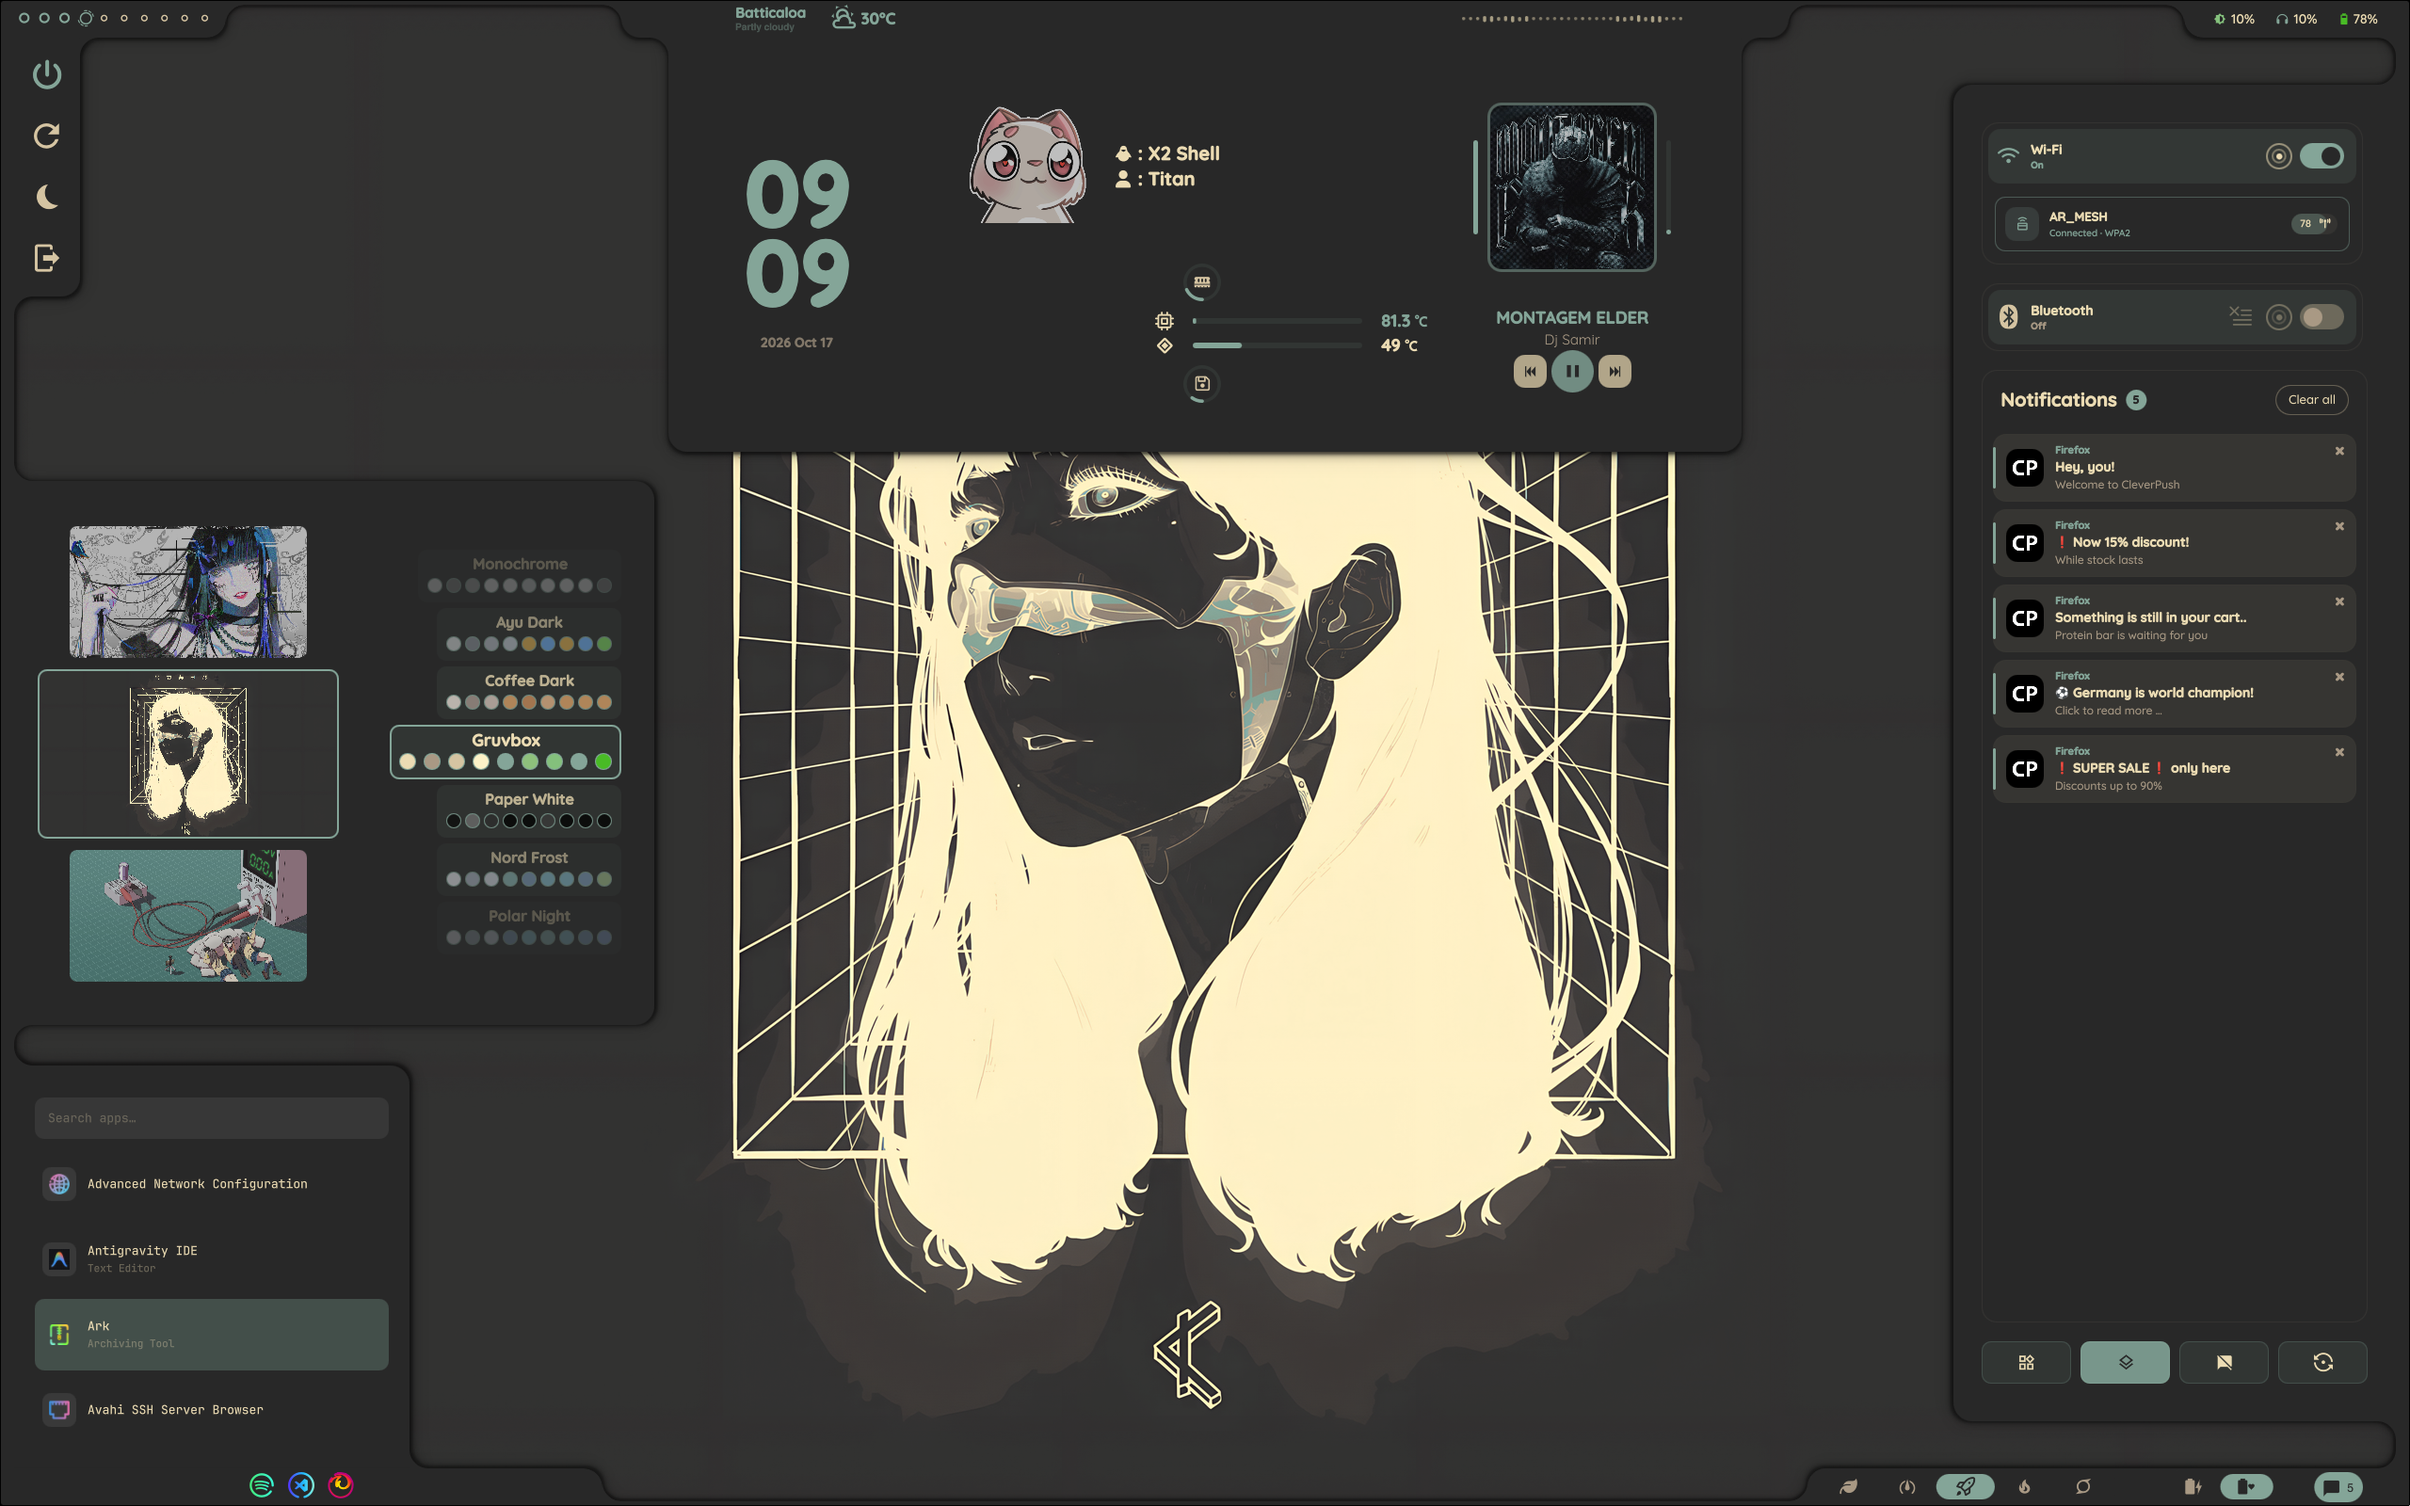
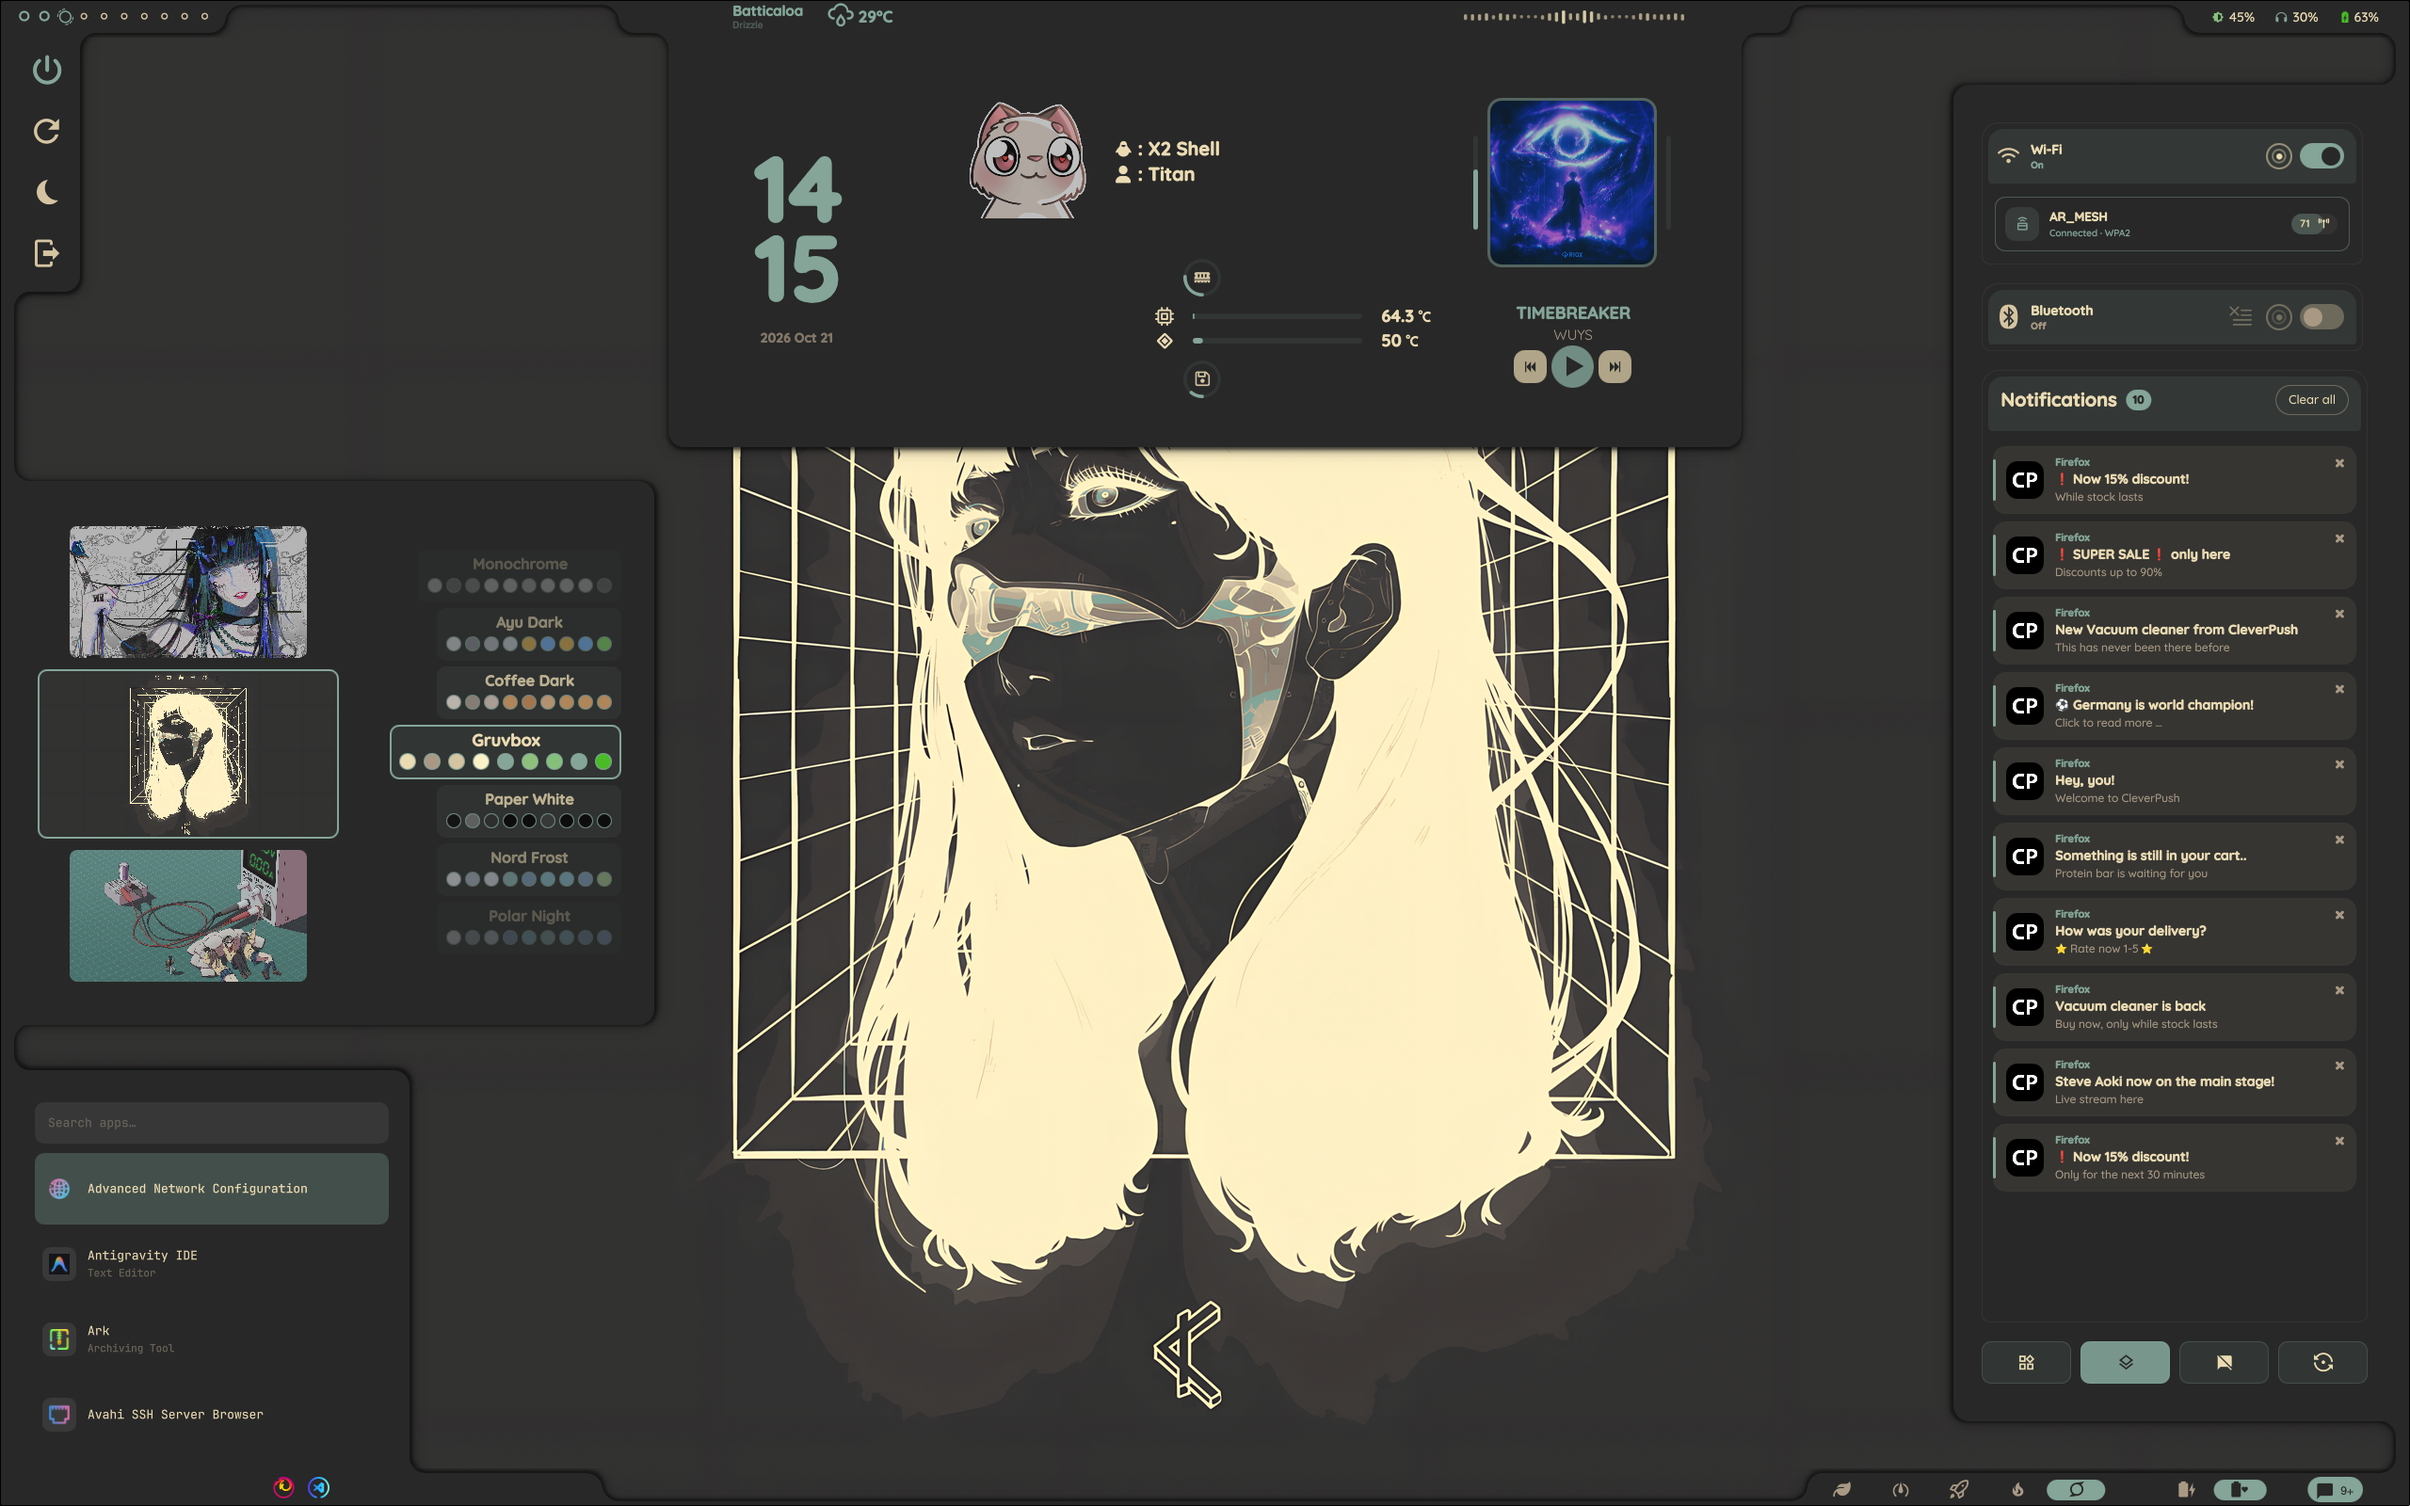
feat: add signal to open notification

diff --git a/modules/bar/bar_comp2/RightBottomB.qml b/modules/bar/bar_comp2/RightBottomB.qml
@@ -15,6 +15,8 @@ Item {
     property int hei: 40
     property int wid: 640
 
+    signal notificationClicked()
+
 
     Rectangle {
         id: rightB
@@ -29,7 +31,7 @@ Item {
             width: root.wid
             height: root.hei
             topLeftRadius: root.rad
-            color: Colors.barBorderColor
+            color: "black"//Colors.barBorderColor
 
             Rectangle{
                 anchors.fill: parent
@@ -67,12 +69,12 @@ Item {
                     Rectangle{
                         id: notificationCount
                         anchors.verticalCenter:parent.verticalCenter
-                        width: notificationCountRow.implicitWidth + 20
-                        height: root.hei-8
+                        implicitWidth: notificationCountRow.implicitWidth + 20
+                        implicitHeight: root.hei-8
                         radius: height / 2
                         color: Colors.notificationCounterBackgroundColor
                         opacity: 1.0//NotificationService.notifications.values.length > 0 ? 1 : 0
-                        scale: NotificationService.notifications.values.length > 0 ? 1 : 0.85
+                        scale: notificationCountMouseArea.pressed ? 0.94 : (NotificationService.notifications.values.length > 0 ? 1 : 0.85)
                         // visible: opacity > 0
 
                         Row{
@@ -141,6 +143,17 @@ Item {
                             NumberAnimation {
                                 duration: 220
                                 easing.type: Easing.OutCubic
+                            }
+                        }
+
+                        MouseArea {
+                            id: notificationCountMouseArea
+                            anchors.fill: parent
+                            // enabled: NotificationService.notifications.values.length > 0
+                            cursorShape: Qt.PointingHandCursor
+                            anchors.margins: -5
+                            onClicked: {
+                                root.notificationClicked()
                             }
                         }
                     

diff --git a/modules/bar/bar_v2/Bar.qml b/modules/bar/bar_v2/Bar.qml
@@ -12,12 +12,12 @@ Scope{
     id:root
     property color borderColor: Colors.barBorderColor
     property real rootRadius: 17.5  // max 'tbHei/2' min 0
-    property int screenCorners: rootRadius/3  
+    property int screenCorners: 10//rootRadius/3  
     property int lrBarWid: 15
     property int topCBarWid: 240
     property int bottomCBarWid: 640
     property int tbHei: 35 // Main visible top,bottom bar height
-    property int hei: tbHei+conHei //Total height for top/bottom PanelWindow
+    property int hei: tbHei+(tbHei/3.5) //Total height for top/bottom PanelWindow
 
 
 
@@ -306,6 +306,16 @@ Scope{
                     shadowHorizontalOffset: 0
                 }
 
+
+
+                // open control center when notification when button is clicked
+                Connections {
+                    target: rightBot
+
+                    function onNotificationClicked() {
+                        right_bottom_power_pop.show = !right_bottom_power_pop.show
+                    }
+                }
                 
 
 

diff --git a/components/PerformanceCtrl.qml b/components/PerformanceCtrl.qml
@@ -14,7 +14,7 @@ Item {
     property int currentIndex: 0
 
     // Button labels
-    property var options: ["", "", "", "", ""]
+    property var options: ["", "", "", "", ""]
 
     // Colors
     property color backgroundColor: Colors.performanceCtrlBackgroundColor
